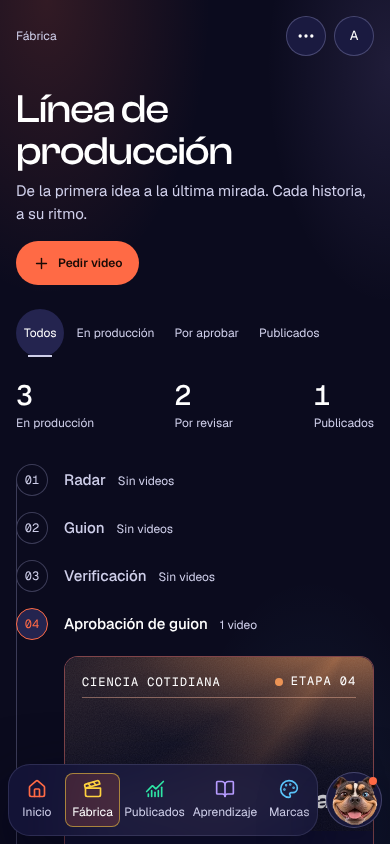
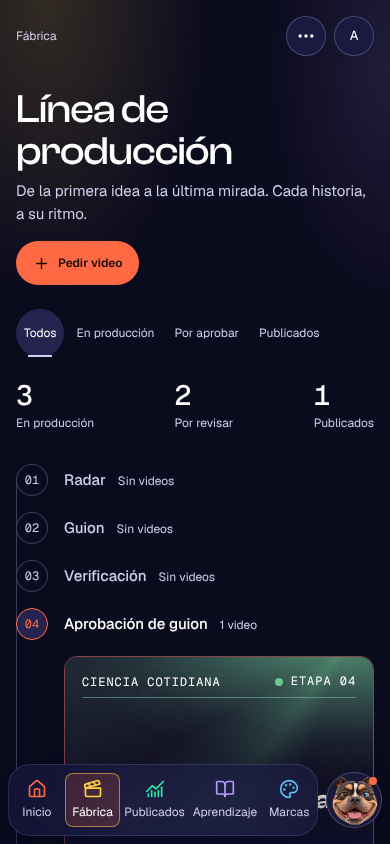
Feria: la luz de fondo toma el color de cada sección y el relleno activo del riel no corta la etiqueta
Verificado: lint y typecheck 0/0, 707/708 unitarias (solo caché de Sentinel),
build OK; 360/390/768/1440/1920 sin desbordamiento ni avisos de consola;
con reduced-motion no queda ninguna animación en marcha.

Claude-Session: https://claude.ai/code/session_01Cb2MbPMmSU1jJveyV3nTDq

Changed region(s): [[0.3692, 0.7701, 0.9538, 0.8934]]

diff --git a/cooper/src/componentes/feria.css b/cooper/src/componentes/feria.css
@@ -28,7 +28,20 @@
 
 /* 2. Ambiente: luz de color suave y fija, sin coste de animación. */
 .workspace {
-  background: var(--fondo-ambiente), var(--lienzo);
+  /* Se redeclara aquí para que la luz tome el --acento de la sección
+     (en :root el var() ya quedó resuelto en coral). */
+  background:
+    radial-gradient(
+      60% 50% at 12% 0%,
+      color-mix(in srgb, var(--acento) 16%, transparent),
+      transparent 70%
+    ),
+    radial-gradient(
+      45% 40% at 100% 8%,
+      color-mix(in srgb, var(--color-aprendizaje) 12%, transparent),
+      transparent 70%
+    ),
+    var(--lienzo);
   background-attachment: fixed;
 }
 
@@ -52,6 +65,10 @@
 .mobile-dock a[aria-current] .nav-indicator {
   background: var(--acento-suave);
   border-color: color-mix(in srgb, var(--acento) 55%, transparent);
+}
+/* La etiqueta ocupa todo el riel: el relleno activo también, para no cortarla. */
+.glass-rail nav a[aria-current] .nav-indicator {
+  inset-inline: calc(var(--espacio-4) * -1);
 }
 .glass-rail nav a[aria-current]::before {
   background: var(--acento);
